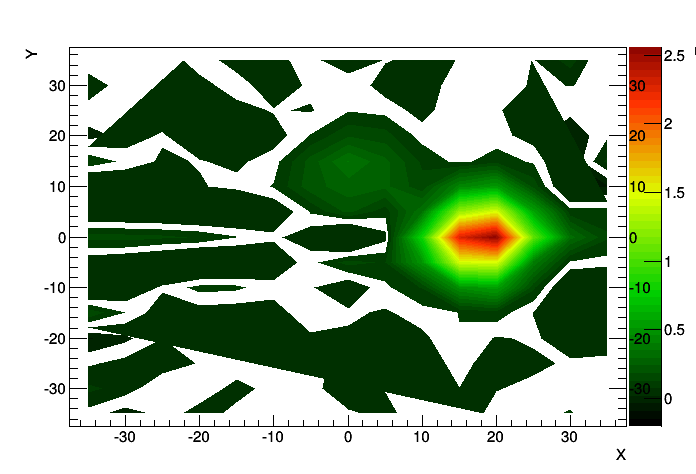
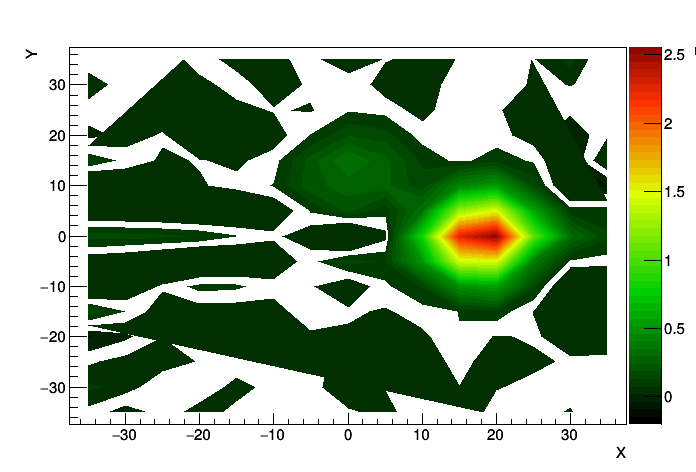
Lol

diff --git a/prog_fit/histo_aqui.cpp b/prog_fit/histo_aqui.cpp
@@ -124,14 +124,14 @@ void histo_aqui()
   //c = new TCanvas("c","c",600,700);
   TCanvas c;
 
-  int X[15] = {-35,-30,-25,-20,-15,-10,-5,0,5,10,15,20,25,30,35};
-  int Y[15] = {-35,-30,-25,-20,-15,-10,-5,0,5,10,15,20,25,30,35};
+  int X[15] = {-6.5582148087,-5.5733432026,-4.611248983,-3.6676011987,-2.7383719498,-1.8197642013,-0.9081476125,0,0.9081476125,1.8197642013,2.7383719498,3.6676011987,4.611248983,5.5733432026,6.5582148087};
+   int Y[15] = {-6.5582148087,-5.5733432026,-4.611248983,-3.6676011987,-2.7383719498,-1.8197642013,-0.9081476125,0,0.9081476125,1.8197642013,2.7383719498,3.6676011987,4.611248983,5.5733432026,6.5582148087};
 
   //Reconstrucao
   double val[225] = {-0.00520940667919827,-0.0709903373261967,-0.0192021681368049,0.0459732184123753,-0.00188209035763080,-0.0190574410109047,-0.00994424174645489,0.00600106786774594,0.0339256519981210,-0.0166314126427618,-0.0307337444399340,0.0409538239315658,0.0463509679218066,0.0785027128925708,-0.000549095334295209,0.0858289719581794,0.0498363146745085,-0.0347504201931969,-0.0274684256061477,0.0401947585791377,-0.00685009330213803,-0.00806063081602896,0.0710504736151663,0.0138128225223246,-0.0341392431872331,0.0153204463207313,0.0132174165248511,0.0294944383569303,0.0393882660691333,0.0560559402431964,0.00658024321511153,0.0390109031903350,0.0487347582220051,0.0127642370447331,-0.0219678635255750,-0.0128546230764779,0.0114499951687109,0.0228518317089330,0.0135053409067943,-0.0243320134794449,0.0421953662196946,-0.0262312189584713,0.00536127689310415,0.0243997024966558,0.0277576195690852,-0.100685900662467,-0.0539066132094292,0.0154023515633108,0.00730171369427641,0.0553027647113870,0.0104639531439373,0.00555342379769692,0.00397914718035521,0.00602574561320953,0.00221654148702547,0.0696945428585631,0.0105814695486826,0.0239234351464344,-0.0127292712310891,-0.00965873198125207,0.172751296025664,0.0717239847935501,-0.0228696285811282,-0.0171630384477138,-0.0219065125933504,-0.00629989937722555,0.0524452050212712,0.0284454334978929,0.00760550794965709,0.0465557999950586,0.0730493000353285,0.111447003099075,0.0151469453123442,-0.0587657783386551,-0.00219920329215897,-0.134528295356626,-0.0561003344784182,0.0270942038923818,0.0927134457621534,0.0830151415843351,0.0382788865109664,0.0236796016846249,-0.0491432349463673,0.0583175225513930,0.131600178914415,0.472369685765033,0.554133675572123,0.142209423174551,-0.0997554011377425,-0.150886760340849,-0.0293083552295649,-0.0542834518663871,-0.0930924628587310,-0.132731899072286,-0.0957197296842600,-0.0453509963800301,0.0519161342407039,0.153953887218686,0.117827671917248,0.510047035175596,1.43327964034555,1.49282400653035,0.390298454477733,0.0597333264813060,0.0506078947336077,0.154980712518251,0.154178649658435,0.136086564821834,0.122457787629549,0.0773728064745736,0.0304023305473177,-0.0269511704945112,-0.204367601034364,-0.00687546817418004,0.811421265683825,2.26338833123813,2.55642825879035,1.08126270768637,0.316891556498562,0.134764601643456,-0.0767606602227425,-0.0887142785469381,-0.0940283396621366,-0.102555536907785,-0.0995538428096898,-0.0523679635359294,0.0776980858390827,0.199960780829425,0.0941995421633696,0.343631286007208,1.24130919579834,1.47352796973766,0.573860005020020,0.0963073405697264,0.0969567070991464,-0.112711750544477,-0.0639290632954773,-0.0228017737614741,0.0108871194576194,0.0346320411946836,0.0748776511473800,0.218087043256180,0.264251291999909,0.252635075908959,0.144725927538097,0.424281012783804,0.529275781318427,0.161798490493478,-0.115501479168563,-0.0975735150342475,0.124615172919373,0.0552628094379013,0.00596031520774881,0.0203345529451148,0.00279162253051885,0.0445816168663150,0.206856563162534,0.350977197788402,0.253923887523900,0.117296138203207,0.0532153851264903,0.105040318140697,0.0619302528443446,-0.0961925127160612,0.0874955221810868,-0.0623461711433342,-0.0214402333838552,0.0256722505811896,-0.0523594510072805,-0.0368781828083298,-0.0185625622577352,0.0743060913453821,0.177894671319753,0.151384677158234,0.0465291865834274,0.0333461329679331,0.0397127140742411,-0.0129091184511499,-0.0855635151906833,0.00911351466532341,-0.00121514571761029,0.00873920295626994,-0.0315804473923499,-0.0520283614769460,-0.00510955507222760,0.0207807876039525,0.0118284049241806,0.0662355226443711,0.0517413534323803,-0.0102648291877522,0.0707205899242250,0.0286966930352225,-0.0412586999650648,-0.0255227456663609,0.00343812348061685,0.0419493313622007,-0.00486211095526946,-0.0449383707311174,-0.00564803442711459,0.0459998560611763,-0.0214859361182629,0.0279181291259097,0.0673813768813141,-0.0174018344010201,-0.0280867718308667,0.0584001644767248,0.0710835766733431,0.00302168982779183,0.0187863377307812,-0.00402802448468536,-0.0115722813972465,-0.0367263622024727,-0.0215665455253067,0.0468668370555382,-0.0105263613129995,0.000437330613542668,0.0390509041840031,-0.0406153729084183,0.0213758110998609,-0.00381441135139487,0.0187220014652449,0.0628227617394062,0.0130219551453507,0.0978172397309866,-0.0677330465286598};
  
 
-  TH2D *hist = new TH2D("Reconstrucao","",15,-37.5,37.5,15,-37.5,37.5);
+  TH2D *hist = new TH2D("Reconstrucao","",13,-6.5582148087,6.5582148087,13,-6.5582148087,6.5582148087);
   
   int k = 0;
   
@@ -167,17 +167,17 @@ void histo_aqui()
     gStyle->SetNumberContours(NCont);
   
 
-  hist->GetXaxis()->SetTitle("X");
-  hist->GetYaxis()->SetTitle("Y");
-  hist->GetZaxis()->SetTitle("Z");
+  hist->GetXaxis()->SetTitle("x(cm)");
+  hist->GetYaxis()->SetTitle("y(cm)");
+  hist->GetZaxis()->SetTitle("Intensidade");
 
 
   //hist->Draw("sph");
   gStyle->SetOptStat(0);
   gStyle->SetPadTickY(2);
-  //hist->Draw("COLZ"); //normal
-  hist->Draw("contz"); //countour
+  hist->Draw("COLZ"); //normal
+  // hist->Draw("contz"); //countour
   //hist->Draw("SURF2Z"); //3D
-  c.Print("recons_cont.png");
+  c.Print("recons2.png");
   
 }
